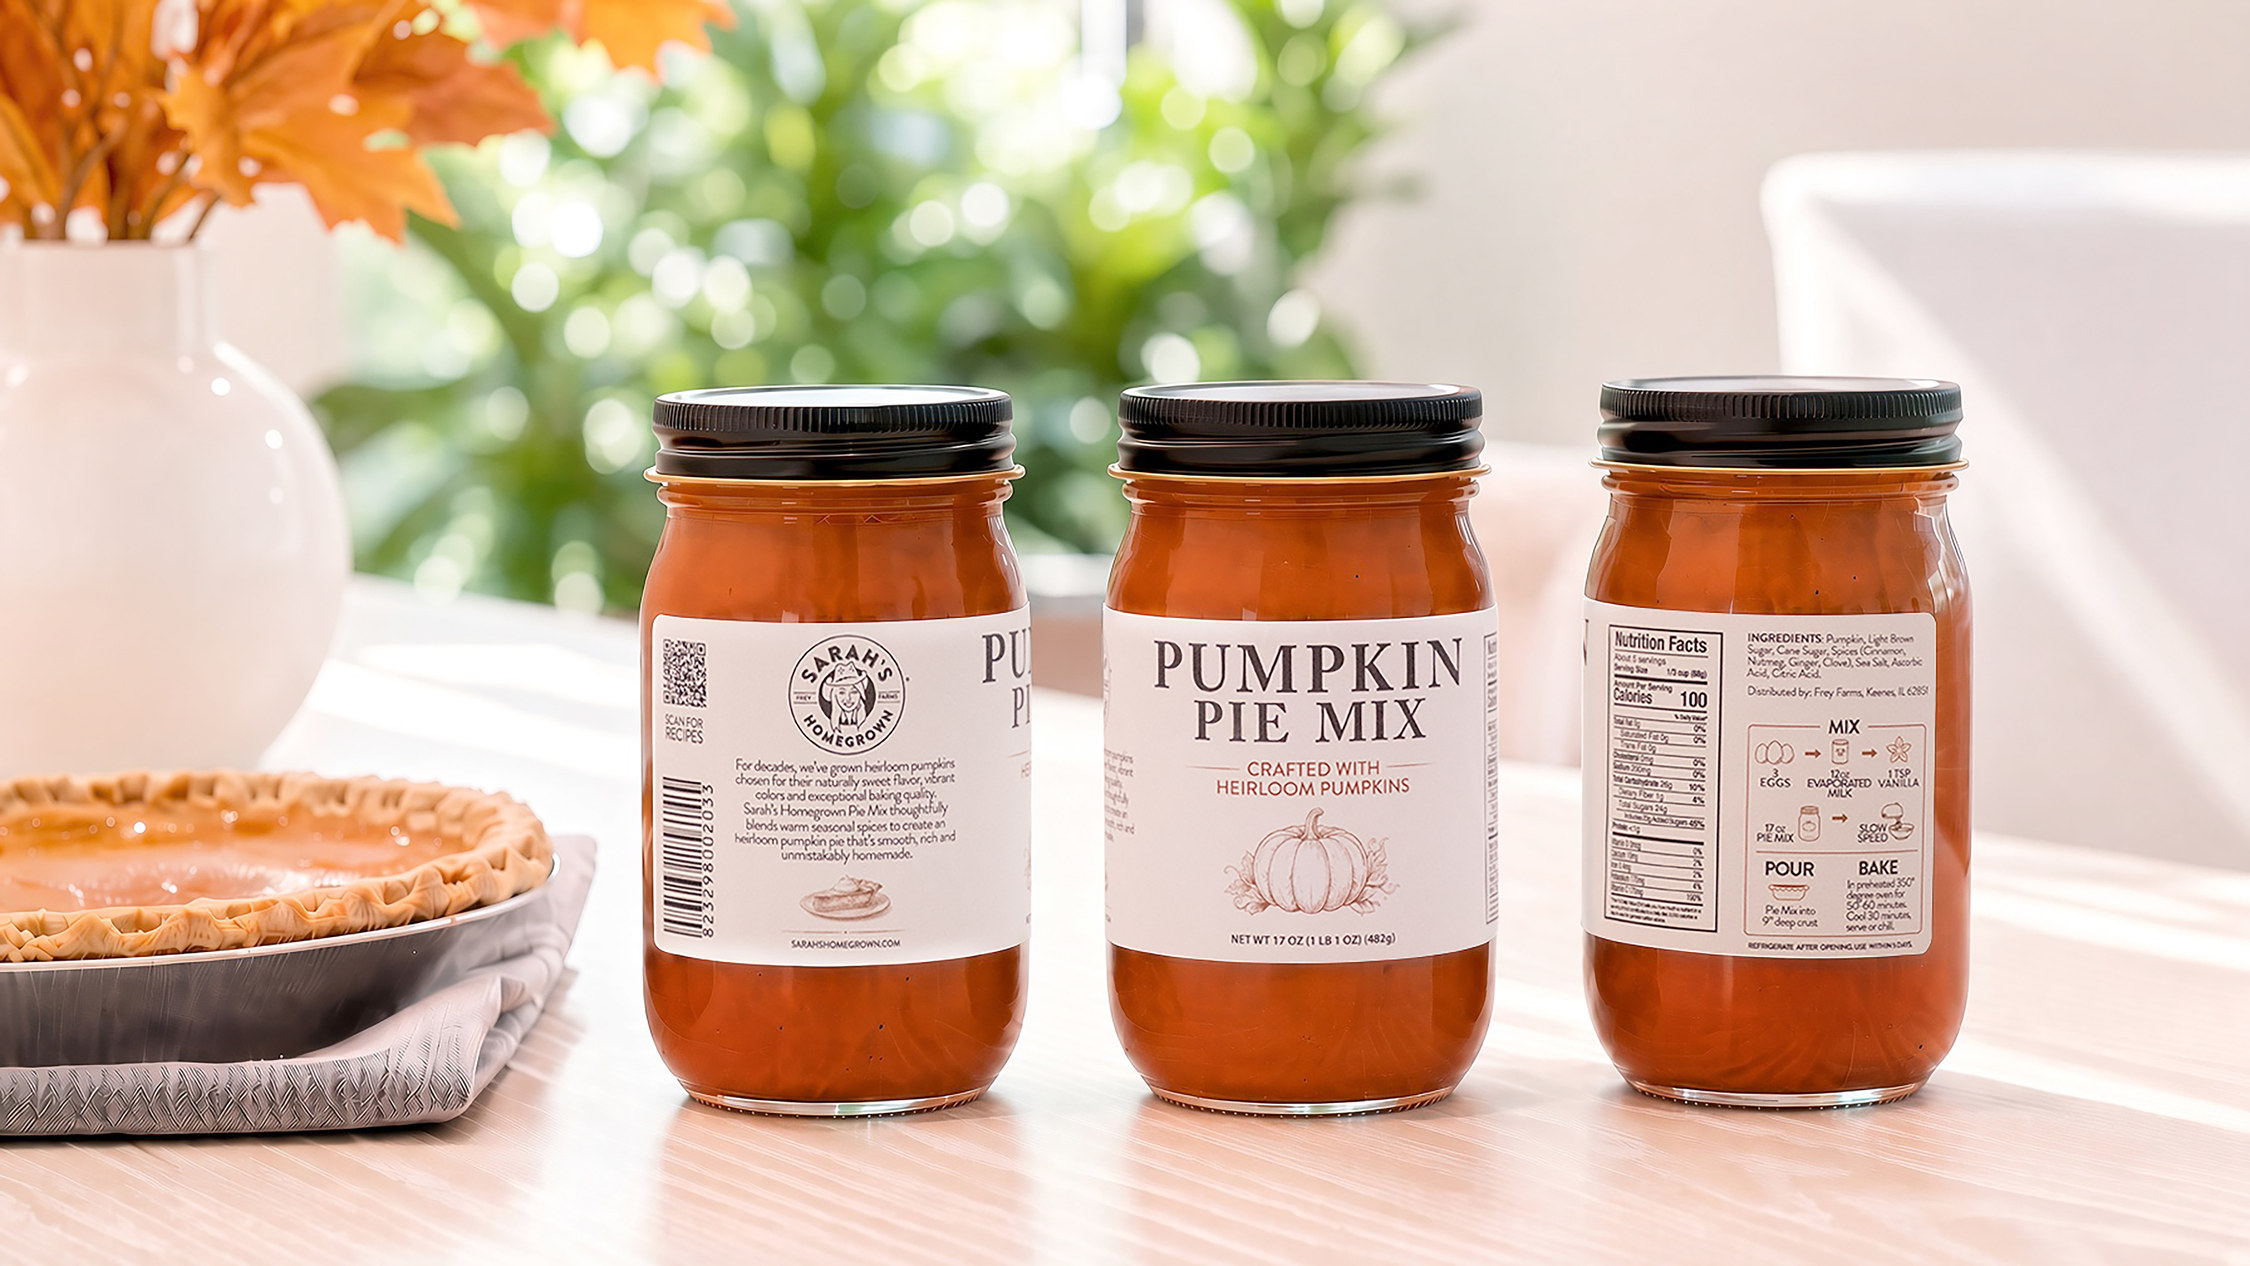
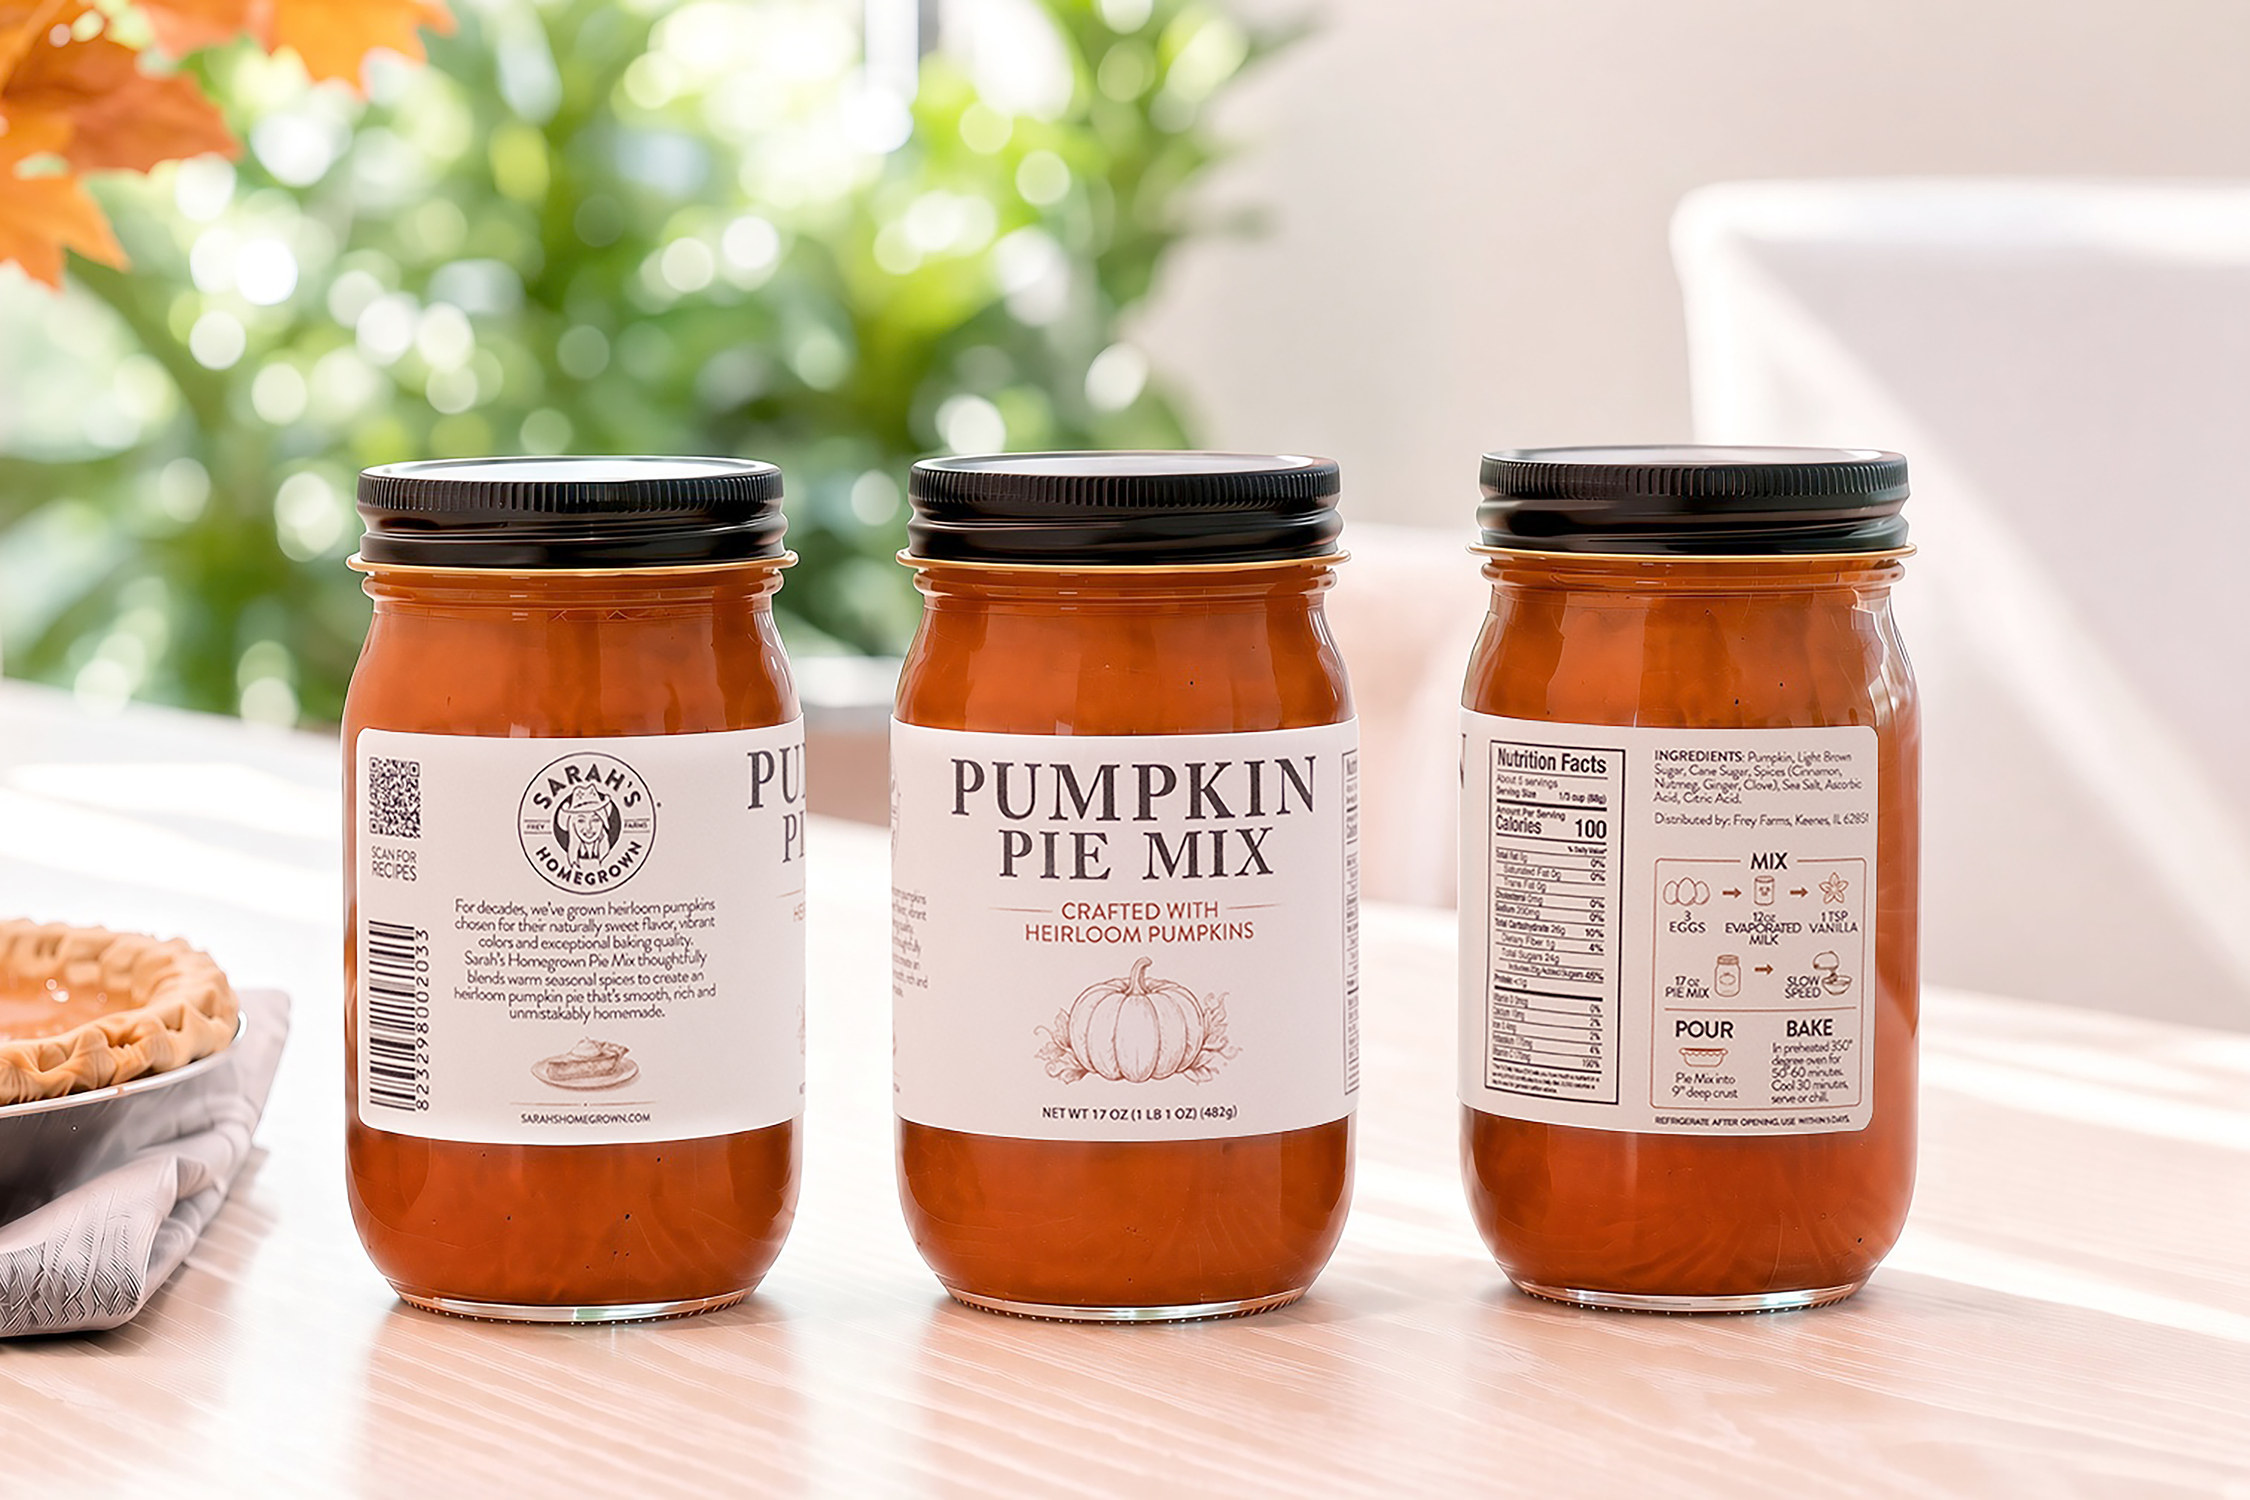
Fill the image column on the Pumpkin Pie Mix section
The new three-jar photo is 16:9, much wider than the other product
shots, so at 50% column width it rendered far shorter than the copy
beside it and left whitespace above and below.

Adds an opt-in fillImage prop to SideBySide: the wrapper switches from
align-items center to stretch and the image is absolutely positioned to
cover its half of the section. Opt-in because the other 30 SideBySide
sections rely on the current centred behaviour and would start cropping.

Cover-cropping the raw 16:9 frame cut the third jar in half, and the
crop worsens as the viewport narrows (the column is 0.51:1 at 900px and
2.10:1 at 2560px). Reframed the source to 3:2 centred on the jars, which
keeps all three in frame from 1200px up and the front-label jar visible
at every width. objectPosition is biased to 58% vertically so ultra-wide
columns do not clip the jar bases.

Claude-Session: https://claude.ai/code/session_01LEzj8ov78oTxiPHMgpfvFv

diff --git a/src/components/side-by-side.js b/src/components/side-by-side.js
@@ -1,5 +1,5 @@
 import React from 'react'
-import styled from "styled-components";
+import styled, { css } from "styled-components";
 import { StaticQuery, graphql } from 'gatsby'
 
 import H2 from '../components/typography/h2'
@@ -8,7 +8,7 @@ import P from '../components/typography/p'
 import Img from "gatsby-image/withIEPolyfill"
 
 
-export default ({ headerThree, headerTwo, paragraph, alt, src, children, reverse }) => (
+export default ({ headerThree, headerTwo, paragraph, alt, src, children, reverse, fillImage }) => (
     <StaticQuery
       query={graphql`
         query {
@@ -23,13 +23,15 @@ export default ({ headerThree, headerTwo, paragraph, alt, src, children, reverse
       `}
       render={data => (
 
-            <Wrapper className="wrapper" reverse={reverse}>
-                <FlexItem>
+            <Wrapper className="wrapper" reverse={reverse} $fill={fillImage}>
+                <ImageItem $fill={fillImage}>
                     <Image
                         fluid={src}
                         alt={alt}
+                        objectFit="cover"
+                        objectPosition="50% 58%"
                     />
-                    </FlexItem>
+                    </ImageItem>
                 <FlexItem>
                     <Copy>
                         <H3>{headerThree}</H3>
@@ -54,7 +56,7 @@ const Wrapper = styled.div`
     position: relative;
     @media (min-width: 900px) {
         display: flex;
-        align-items: center;
+        align-items: ${props => (props.$fill ? "stretch" : "center")};
         flex-direction: ${props => props.reverse || "row"};
     }
 `
@@ -81,6 +83,25 @@ const FlexItem = styled.div`
     width: 100%;
     @media (min-width: 900px) {
         width: calc(100% / 2);
+    }
+`
+// Lets a wide image cover its half of the section instead of leaving
+// whitespace above and below it when the copy column is taller.
+const ImageItem = styled(FlexItem)`
+    @media (min-width: 900px) {
+        ${props =>
+            props.$fill &&
+            css`
+                position: relative;
+                overflow: hidden;
+                & > .gatsby-image-wrapper {
+                    position: absolute;
+                    top: 0;
+                    left: 0;
+                    width: 100%;
+                    height: 100%;
+                }
+            `}
     }
 `
 

diff --git a/src/pages/what-we-grow/pumpkins.js b/src/pages/what-we-grow/pumpkins.js
@@ -127,7 +127,7 @@ const IndexPage = ({ data }) => (
     </ProductWrapper>
 
     <ProductWrapper id="pumpkin-pie-mix">
-      <SideBySide reverse="row-reverse"
+      <SideBySide reverse="row-reverse" fillImage
         headerTwo="Pumpkin Pie Mix"
         paragraph={
     <>
